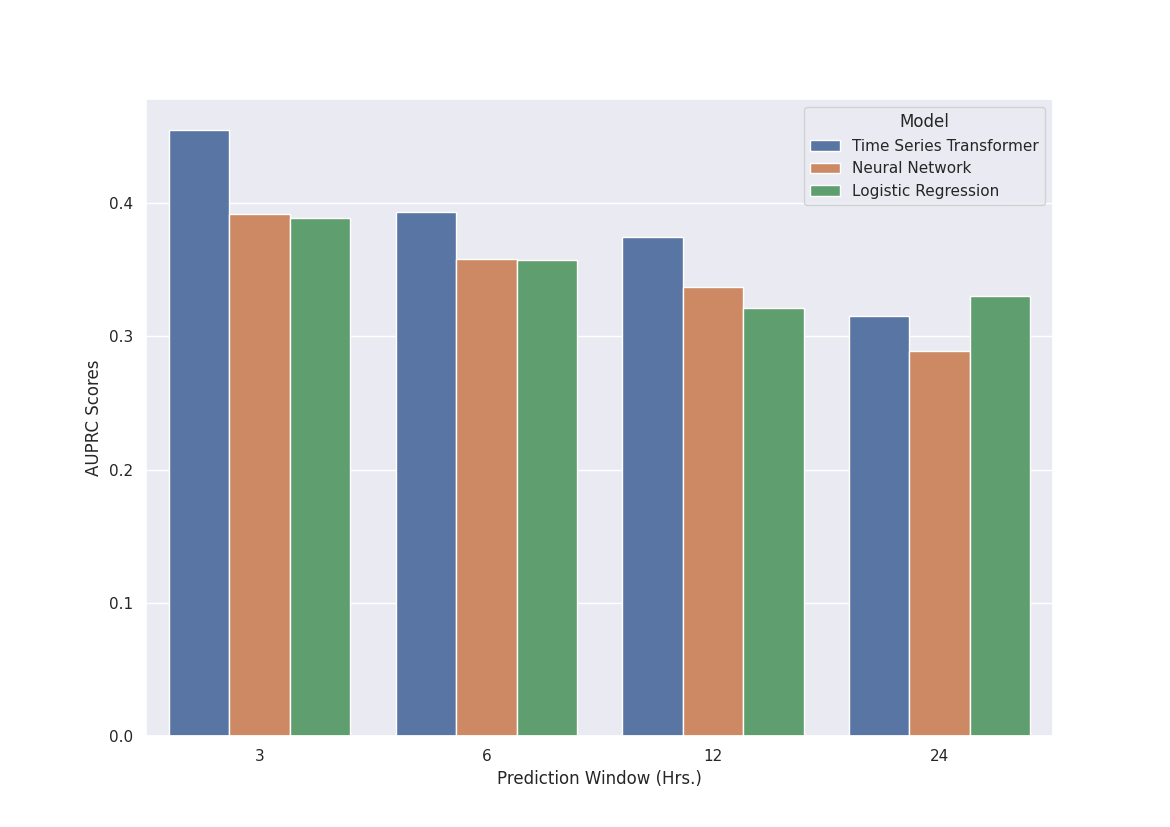
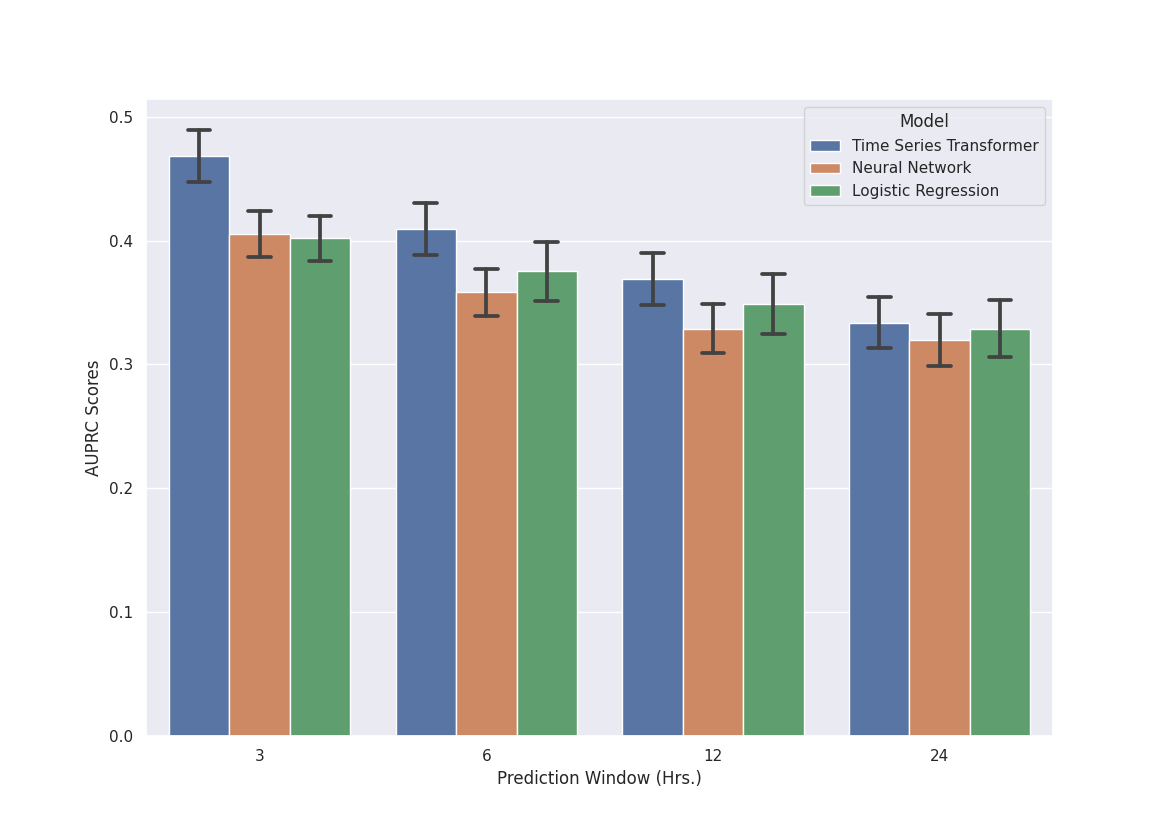
Do bootstraping to establish confidence intervals

diff --git a/src/tabsep/reporting/performanceVsTime.py b/src/tabsep/reporting/performanceVsTime.py
@@ -8,6 +8,35 @@ from sklearn.metrics import average_precision_score, precision_recall_curve
 from sklearn.metrics import auc
 
 from tabsep.modeling import CVResults
+import scipy.stats
+import random
+
+
+def bootstrapping_auprc(y_test, preds):
+    random.seed(42)
+    bootstraps = 100
+    n = preds.shape[0]
+    assert n == y_test.shape[0]
+    assert n != 1
+
+    sample_size = n // 10
+    indices = list(range(0, n))
+
+    auprcs = list()
+
+    for bootstrap_idx in range(0, bootstraps):
+        this_group_indices = random.sample(indices, sample_size)
+        group_labels = y_test[this_group_indices]
+        group_preds = preds[this_group_indices]
+
+        precision, recall, thresholds = precision_recall_curve(
+            group_labels, group_preds
+        )
+        auprc = auc(recall, precision)
+        auprcs.append(auprc)
+
+    return auprcs
+
 
 if __name__ == "__main__":
     plottable = {
@@ -22,18 +51,28 @@ if __name__ == "__main__":
     }
 
     for window_idx in [3, 6, 12, 24]:
-        for model in ["LR", "NN", "TST"]:
+        for model in pretty_model_names.keys():
             y_test = torch.load(f"cache/{model}/sparse_labeled_{window_idx}_y_test.pt")
             preds = torch.load(f"cache/{model}/sparse_labeled_{window_idx}_preds.pt")
 
-            precision, recall, thresholds = precision_recall_curve(y_test, preds)
-            auprc = auc(recall, precision)
+            bootstrapped_auprcs = bootstrapping_auprc(y_test, preds)
 
-            plottable["Model"].append(pretty_model_names[model])
-            plottable["AUPRC Scores"].append(auprc)
-            plottable["Prediction Window (Hrs.)"].append(window_idx)
+            plottable["Model"] += [pretty_model_names[model]] * len(bootstrapped_auprcs)
+            plottable["AUPRC Scores"] += bootstrapped_auprcs
+            plottable["Prediction Window (Hrs.)"] += [window_idx] * len(
+                bootstrapped_auprcs
+            )
 
-            print(f"{model} window {window_idx}: AUPRC {auprc}")
+            avg_auprc = sum(bootstrapped_auprcs) / len(bootstrapped_auprcs)
+            lower_ci, upper_ci = scipy.stats.norm.interval(
+                0.95,
+                loc=avg_auprc,
+                scale=scipy.stats.sem(bootstrapped_auprcs),
+            )
+            s, p = scipy.stats.normaltest(bootstrapped_auprcs)
+            print(
+                f"{model[0]} window {window_idx:02d}: AUPRC {avg_auprc:.5f} +/- {avg_auprc - lower_ci:.5f} (normtest {p:.3f})"
+            )
 
     plottable = pd.DataFrame(data=plottable)
 
@@ -45,6 +84,14 @@ if __name__ == "__main__":
         y="AUPRC Scores",
         hue="Model",
         hue_order=pretty_model_names.values(),
+        errorbar=(
+            lambda x: scipy.stats.norm.interval(
+                0.95,
+                loc=x.mean(),
+                scale=scipy.stats.sem(x),
+            )
+        ),
+        capsize=0.1,
     )
 
     plt.savefig("results/performanceVsTime.png")
